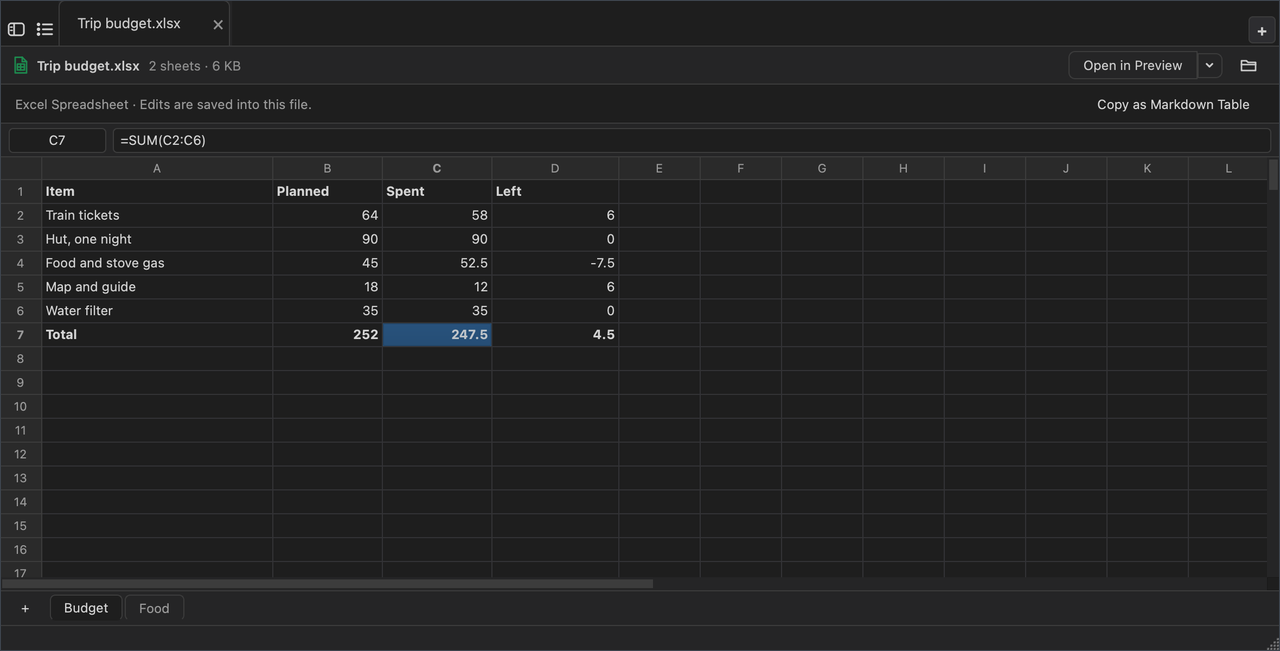
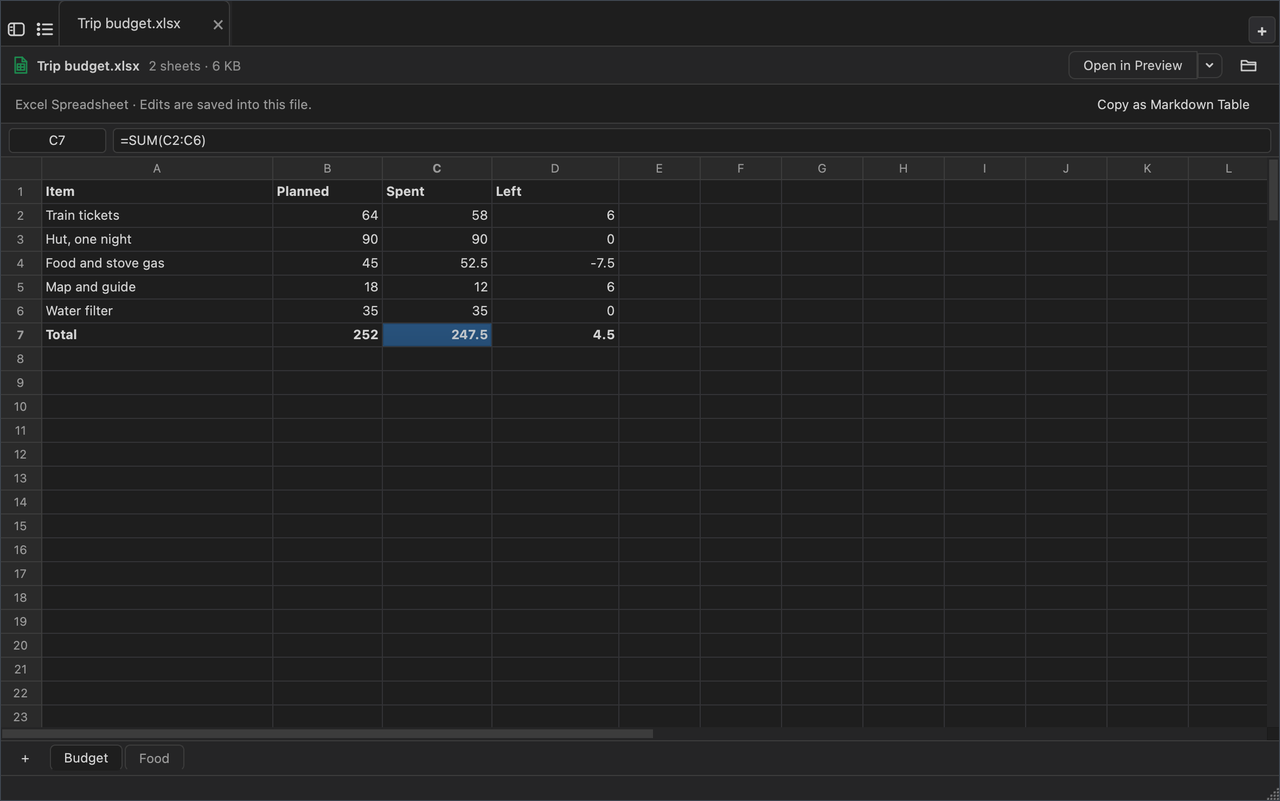
The README's closer look is a row of three pictures, shown at once
Folders, the PDF reader and a spreadsheet stand side by side, each
linking to its page in the user guide, with one line naming them. The
PDF and spreadsheet pictures are taken again at 16:10, as the folders
one is, so the row is even.

diff --git a/README.de.md b/README.de.md
@@ -35,33 +35,22 @@
 
 ## Genauer hingeschaut
 
-<details>
-<summary>Drei weitere Bildschirmfotos</summary>
+<p>
+  <a href="docs/use/folders-and-files.md"><picture>
+    <source media="(prefers-color-scheme: dark)" srcset="docs/images/de/folders-dark.png">
+    <img src="docs/images/de/folders-light.png" width="32%" alt="Die Seitenleiste mit dem Ordner Bergtour, in der Dateiliste Notizen, ein PDF und eine Tabelle, rechts die geöffnete Notiz">
+  </picture></a>
+  <a href="docs/use/pdf.md"><picture>
+    <source media="(prefers-color-scheme: dark)" srcset="docs/images/de/pdf-dark.png">
+    <img src="docs/images/de/pdf-light.png" width="32%" alt="Ein Wanderführer als PDF im Leser, links das aufgeklappte Inhaltsverzeichnis">
+  </picture></a>
+  <a href="docs/use/spreadsheets.md"><picture>
+    <source media="(prefers-color-scheme: dark)" srcset="docs/images/de/sheet-dark.png">
+    <img src="docs/images/de/sheet-light.png" width="32%" alt="Die Reisekasse als Arbeitsmappe in MyEditor, die Summe ausgewählt, in der Formelzeile =SUMME(C2:C6)">
+  </picture></a>
+</p>
 
-<br>
-
-**Deine Ordner neben deinem Text.** Die Seitenleiste zeigt die Ordner, die du hinzufügst, die Dateiliste ihren Inhalt, das Neueste zuerst.
-
-<picture>
-  <source media="(prefers-color-scheme: dark)" srcset="docs/images/de/folders-dark.png">
-  <img src="docs/images/de/folders-light.png" alt="Die Seitenleiste mit dem Ordner Bergtour, in der Dateiliste Notizen, ein PDF und eine Tabelle, rechts die geöffnete Notiz">
-</picture>
-
-**Ein PDF-Leser zum Lesen.** Die Seiten, ihr Inhaltsverzeichnis und sonst nichts.
-
-<picture>
-  <source media="(prefers-color-scheme: dark)" srcset="docs/images/de/pdf-dark.png">
-  <img src="docs/images/de/pdf-light.png" alt="Ein Wanderführer als PDF im Leser, links das aufgeklappte Inhaltsverzeichnis">
-</picture>
-
-**Tabellen, direkt bearbeitet.** Formeln schreibst du auf Deutsch, und beim Speichern bleibt die Formatierung der Datei erhalten.
-
-<picture>
-  <source media="(prefers-color-scheme: dark)" srcset="docs/images/de/sheet-dark.png">
-  <img src="docs/images/de/sheet-light.png" alt="Die Reisekasse als Arbeitsmappe in MyEditor, die Summe ausgewählt, in der Formelzeile =SUMME(C2:C6)">
-</picture>
-
-</details>
+Von links: [deine Ordner neben deinem Text](docs/use/folders-and-files.md), [ein PDF-Leser zum Lesen](docs/use/pdf.md) und [Tabellen, direkt bearbeitet](docs/use/spreadsheets.md), mit Formeln auf Deutsch. Die verlinkten Seiten der Anleitung sind auf Englisch.
 
 ## Installieren
 

diff --git a/README.md b/README.md
@@ -35,33 +35,22 @@
 
 ## A closer look
 
-<details>
-<summary>Three more screenshots</summary>
+<p>
+  <a href="docs/use/folders-and-files.md"><picture>
+    <source media="(prefers-color-scheme: dark)" srcset="docs/images/folders-dark.png">
+    <img src="docs/images/folders-light.png" width="32%" alt="The sidebar with a trip folder, its notes, PDF and spreadsheet in the file list, and the selected note open on the right">
+  </picture></a>
+  <a href="docs/use/pdf.md"><picture>
+    <source media="(prefers-color-scheme: dark)" srcset="docs/images/pdf-dark.png">
+    <img src="docs/images/pdf-light.png" width="32%" alt="A trail guide PDF open in the reader, with its table of contents expanded on the left">
+  </picture></a>
+  <a href="docs/use/spreadsheets.md"><picture>
+    <source media="(prefers-color-scheme: dark)" srcset="docs/images/sheet-dark.png">
+    <img src="docs/images/sheet-light.png" width="32%" alt="A trip budget workbook open in MyEditor, the total's cell selected and its SUM formula in the formula bar">
+  </picture></a>
+</p>
 
-<br>
-
-**Your folders, beside your writing.** The sidebar holds the folders you add; the file list shows what is in them, newest first.
-
-<picture>
-  <source media="(prefers-color-scheme: dark)" srcset="docs/images/folders-dark.png">
-  <img src="docs/images/folders-light.png" alt="The sidebar with a trip folder, its notes, PDF and spreadsheet in the file list, and the selected note open on the right">
-</picture>
-
-**A PDF reader for reading.** The pages, their contents and nothing else.
-
-<picture>
-  <source media="(prefers-color-scheme: dark)" srcset="docs/images/pdf-dark.png">
-  <img src="docs/images/pdf-light.png" alt="A trail guide PDF open in the reader, with its table of contents expanded on the left">
-</picture>
-
-**Spreadsheets, edited in place.** Formulas work in your language, and saving keeps the file's formatting.
-
-<picture>
-  <source media="(prefers-color-scheme: dark)" srcset="docs/images/sheet-dark.png">
-  <img src="docs/images/sheet-light.png" alt="A trip budget workbook open in MyEditor, the total's cell selected and its SUM formula in the formula bar">
-</picture>
-
-</details>
+From left: [your folders beside your writing](docs/use/folders-and-files.md), [a PDF reader made for reading](docs/use/pdf.md), and [spreadsheets edited in place](docs/use/spreadsheets.md), with formulas in your language.
 
 ## Install
 
